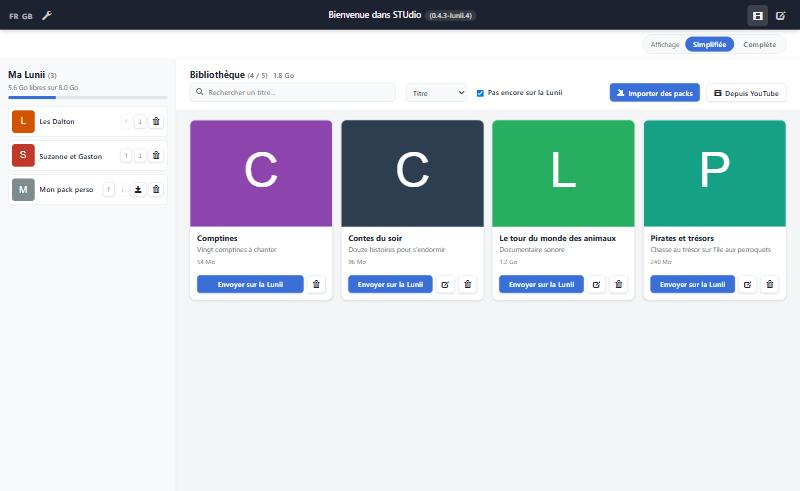
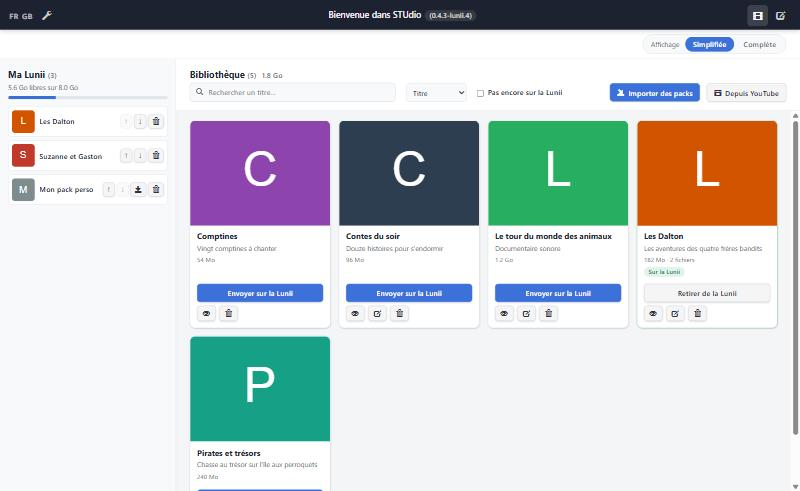
fix(ui): bouton principal sur toute la largeur des cartes simplifiées
Avec Aperçu, Modifier et Supprimer, la corbeille débordait de la carte.
Le bouton « Envoyer sur la Lunii » prend sa propre ligne, les icônes
passent dessous, de la même façon sur toutes les cartes. Captures à jour.

diff --git a/web-ui/javascript/src/components/PackLibrarySimple.css b/web-ui/javascript/src/components/PackLibrarySimple.css
@@ -272,11 +272,15 @@
     margin-top: auto;
     padding-top: 8px;
     display: flex;
+    flex-wrap: wrap;
     gap: 6px;
 }
 
+/* The main action on its own line, the secondary ones (icons) below it, on every card alike */
 .pack-library-simple .simple-actions .ui-btn:first-child {
-    flex: 1;
+    flex: 1 1 100%;
+    min-width: 0;
+    white-space: normal;
 }
 
 .pack-library-simple .simple-card.on-device {
